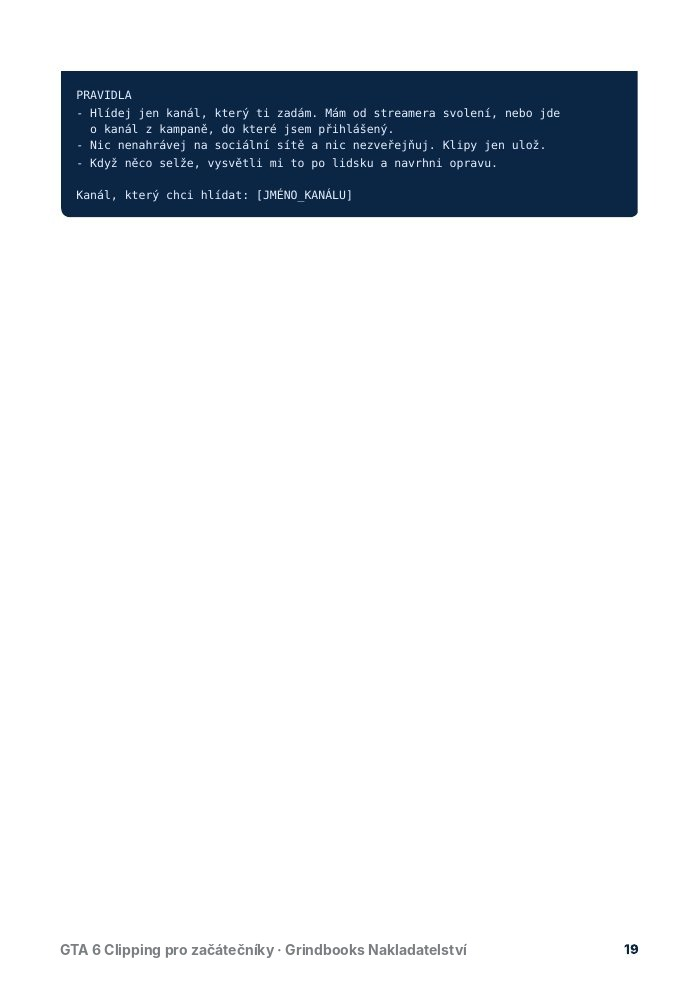
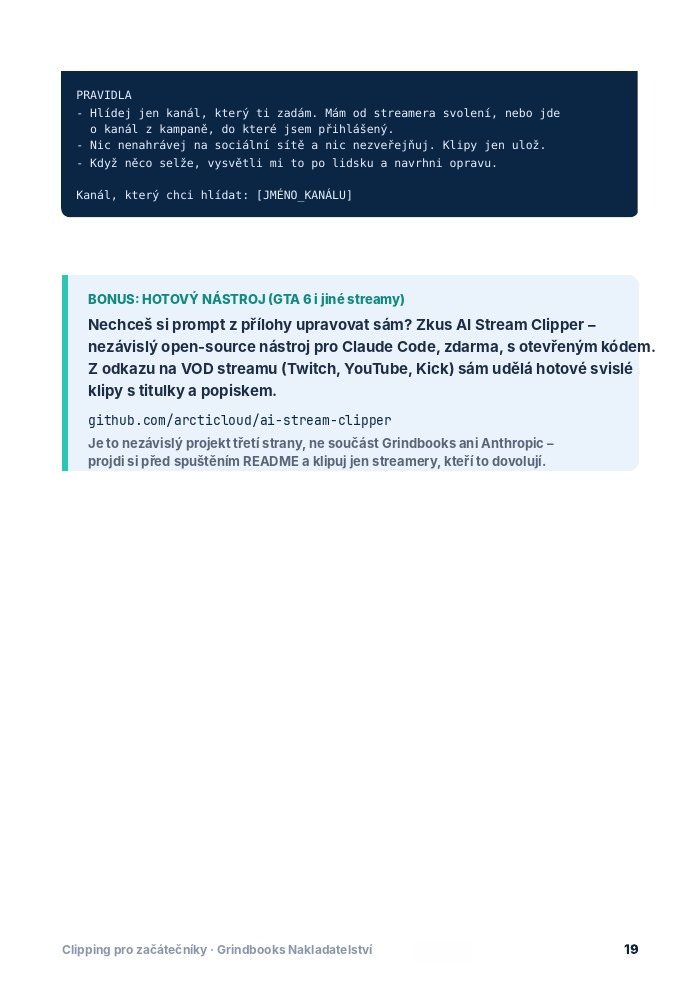
Clipping pro začátečníky (bonus: GTA 6): přejmenování + bonus odkaz
- přejmenování napříč webem: 'GTA 6 Clipping pro začátečníky' -> 'Clipping pro
  začátečníky (bonus: GTA 6)' (titulek, popisy, obálka, zadní strana)
- obálka a zadní strana přepracované (nový nadpis), patičky uvnitř knihy opraveny
- do volného místa na str. 19 doplněn bonus: odkaz na nezávislý open-source
  nástroj github.com/arcticloud/ai-stream-clipper (Claude Code skill, MIT,
  ověřeno, že reálně existuje) s upozorněním, že jde o nástroj třetí strany

Plný PDF (prodejný obsah) zde NENÍ – jde jen zákazníkovi po zaplacení / do R2,
nikdy ne do veřejného repozitáře.

Claude-Session: https://claude.ai/code/session_01RQAtjHru4NMKK4PGTpRNir

Changed region(s): [[0.09, 0.2727, 0.93, 0.4848], [0.09, 0.9394, 0.66, 0.9697]]

diff --git a/public/kniha/gta-6-clipping-pro-zacatecniky/index.html b/public/kniha/gta-6-clipping-pro-zacatecniky/index.html
@@ -3,10 +3,10 @@
 <head>
 <meta charset="utf-8">
 <meta name="viewport" content="width=device-width, initial-scale=1">
-<title>GTA 6 Clipping pro začátečníky – e-book | Nakladatelství Grindbooks</title>
+<title>Clipping pro začátečníky (bonus: GTA 6) – e-book | Nakladatelství Grindbooks</title>
 <meta name="description" content="Jak začít vydělávat s clippingem: kde najít GTA 6 kampaně i kampaně ze streamů a podcastů, jak udělat první vertikální klip a prompt zdarma, se kterým Claude hlídá stream a dělá shorty. 20 stran.">
 <meta property="og:type" content="product">
-<meta property="og:title" content="GTA 6 Clipping pro začátečníky">
+<meta property="og:title" content="Clipping pro začátečníky (bonus: GTA 6)">
 <meta property="og:description" content="Jak začít vydělávat na klipech, kde najít placené kampaně a jak nechat Clauda hlídat stream">
 <meta property="og:image" content="/img/og.jpg">
 <meta name="twitter:card" content="summary_large_image">
@@ -14,7 +14,7 @@
 <link rel="preconnect" href="https://fonts.googleapis.com"><link rel="preconnect" href="https://fonts.gstatic.com" crossorigin>
 <link href="https://fonts.googleapis.com/css2?family=Fraunces:ital,opsz,wght@0,9..144,600;0,9..144,700;1,9..144,600&family=Inter:wght@400;500;600;700;800;900&display=swap" rel="stylesheet">
 <link rel="stylesheet" href="/assets/site.css">
-<script type="application/ld+json">{"@context":"https://schema.org","@type":"Book","name":"GTA 6 Clipping pro začátečníky","alternativeHeadline":"Jak začít vydělávat na klipech, kde najít placené kampaně a jak nechat Clauda hlídat stream","author":{"@type":"Organization","name":"Tým Grindbooks"},"publisher":{"@type":"Organization","name":"Nakladatelství Grindbooks","email":"info@grindbooks.eu","url":"https://grindbooks.eu"},"bookFormat":"https://schema.org/EBook","numberOfPages":20,"inLanguage":"cs","datePublished":"2026-11"}</script>
+<script type="application/ld+json">{"@context":"https://schema.org","@type":"Book","name":"Clipping pro začátečníky (bonus: GTA 6)","alternativeHeadline":"Jak začít vydělávat na klipech, kde najít placené kampaně a jak nechat Clauda hlídat stream","author":{"@type":"Organization","name":"Tým Grindbooks"},"publisher":{"@type":"Organization","name":"Nakladatelství Grindbooks","email":"info@grindbooks.eu","url":"https://grindbooks.eu"},"bookFormat":"https://schema.org/EBook","numberOfPages":20,"inLanguage":"cs","datePublished":"2026-11"}</script>
 </head>
 <body>
 
@@ -34,7 +34,7 @@
   <div>
     <div class="crumbs rv"><a href="/">Nakladatelství</a> / <a href="/#katalog">Katalog</a> / Podnikání</div>
     <span class="eyebrow rv" style="color:var(--t)">Novinka · Jak začít vydělávat s clippingem</span>
-    <h1 class="serif rv d1">GTA 6 Clipping pro začátečníky</h1>
+    <h1 class="serif rv d1">Clipping pro začátečníky (bonus: GTA 6)</h1>
     <p class="sub rv d1">GTA 6 vychází 19. listopadu a streameři i značky už platí za klipy. Zjistíš, kde najít placené kampaně, kdo za klipy platí a jak udělat první klip. A dostaneš prompt zdarma, se kterým Claude hlídá stream a sám dělá shorty.</p>
     <div class="meta rv d2"><span>20 stran A5</span><span>6 kapitol</span><span>GTA 6 kampaně</span><span>Prompt zdarma</span><span>Tým Grindbooks</span></div>
     <div class="priceline rv d3">
@@ -102,7 +102,7 @@
   <h2 class="serif">Co dostaneš</h2>
   <p class="lead">Soubory si stáhneš hned po zaplacení.</p>
   <div class="pack">
-    <div class="item rv"><div class="ic">PDF</div><div><h3>E-book GTA 6 Clipping pro začátečníky</h3><p>20 stran ve formátu A5, pohodlně čitelný i na telefonu. 6 kapitol, tabulky a modelové příklady.</p></div></div>
+    <div class="item rv"><div class="ic">PDF</div><div><h3>E-book Clipping pro začátečníky (bonus: GTA 6)</h3><p>20 stran ve formátu A5, pohodlně čitelný i na telefonu. 6 kapitol, tabulky a modelové příklady.</p></div></div>
     <div class="item rv d1"><div class="ic">AI</div><div><h3>Prompt zdarma pro Clauda</h3><p>Hotový text ke zkopírování: Claude podle něj postaví nástroj, který hlídá stream a dělá shorty.</p></div></div>
     <div class="item rv"><div class="ic">✓</div><div><h3>Checklist „Můj první klip“</h3><p>Kontrolní seznam před každým zveřejněním, včetně pravidel kampaní.</p></div></div>
     <div class="item rv d1"><div class="ic">7d</div><div><h3>Plán a zpráva streamerovi</h3><p>Sedmidenní plán od nuly k prvním klipům a hotová zpráva pro oslovení streamera.</p></div></div>
@@ -152,7 +152,7 @@
   <div class="cols">
     <div><a class="logo" href="/"><img src="/img/logo.png" alt=""><span><b>Grindbooks</b><small>Nakladatelství</small></span></a>
       <p style="margin-top:14px;max-width:340px">Praktické české e-booky, podle kterých věci opravdu uděláte.</p></div>
-    <div><h4>E-booky</h4><ul><li><a href="/kniha/vlastni-web-pomoci-ai/">Vlastní web pomocí AI</a></li><li><a href="/kniha/vlastni-e-shop-pomoci-ai/">Vlastní e-shop pomocí AI</a></li><li><a href="/kniha/vlastni-aplikace-pomoci-ai/">Vlastní aplikace pomocí AI</a></li><li><a href="/kniha/jak-vytvorit-vlastniho-ai-chatbota/">Jak vytvořit vlastního AI chatbota</a></li><li><a href="/kniha/jak-automatizovat-praci-pomoci-ai/">Jak automatizovat práci pomocí AI</a></li><li><a href="/kniha/jak-vytvorit-vlastni-software-pomoci-ai/">Jak vytvořit vlastní software pomocí AI</a></li><li><a href="/kniha/gta-6-clipping-pro-zacatecniky/">Jak vytvářet profesionální videa pomocí AI</a></li><li><a href="/kniha/gta-6-clipping-pro-zacatecniky/">GTA 6 Clipping pro začátečníky</a></li><li><a href="/#katalog">Celý katalog</a></li></ul></div>
+    <div><h4>E-booky</h4><ul><li><a href="/kniha/vlastni-web-pomoci-ai/">Vlastní web pomocí AI</a></li><li><a href="/kniha/vlastni-e-shop-pomoci-ai/">Vlastní e-shop pomocí AI</a></li><li><a href="/kniha/vlastni-aplikace-pomoci-ai/">Vlastní aplikace pomocí AI</a></li><li><a href="/kniha/jak-vytvorit-vlastniho-ai-chatbota/">Jak vytvořit vlastního AI chatbota</a></li><li><a href="/kniha/jak-automatizovat-praci-pomoci-ai/">Jak automatizovat práci pomocí AI</a></li><li><a href="/kniha/jak-vytvorit-vlastni-software-pomoci-ai/">Jak vytvořit vlastní software pomocí AI</a></li><li><a href="/kniha/gta-6-clipping-pro-zacatecniky/">Jak vytvářet profesionální videa pomocí AI</a></li><li><a href="/kniha/gta-6-clipping-pro-zacatecniky/">Clipping pro začátečníky (bonus: GTA 6)</a></li><li><a href="/#katalog">Celý katalog</a></li></ul></div>
     <div><h4>Kontakt</h4><ul><li><a href="mailto:info@grindbooks.eu">info@grindbooks.eu</a></li><li><a href="https://grindbooks.eu">grindbooks.eu</a></li><li><a href="/podminky/">Podmínky nákupu</a></li><li><a href="/soukromi/">Ochrana soukromí</a></li></ul></div>
   </div>
   <div class="legal">© 2026 Tým Grindbooks. Platby zpracovává Stripe. Uvedené názvy služeb jsou ochranné známky jejich vlastníků; tento e-book není oficiálním produktem společností Rockstar Games, Take-Two, Twitche, TikToku, Content Rewards, Anthropicu ani dalších uvedených služeb.</div>

diff --git a/public/index.html b/public/index.html
@@ -207,7 +207,7 @@
   <div class="cols">
     <div><a class="logo" href="/"><img src="/img/logo.png" alt=""><span><b>Grindbooks</b><small>Nakladatelství</small></span></a>
       <p style="margin-top:14px;max-width:340px">Praktické české e-booky, podle kterých věci opravdu uděláte.</p></div>
-    <div><h4>E-booky</h4><ul><li><a href="/kniha/vlastni-web-pomoci-ai/">Vlastní web pomocí AI</a></li><li><a href="/kniha/vlastni-e-shop-pomoci-ai/">Vlastní e-shop pomocí AI</a></li><li><a href="/kniha/vlastni-aplikace-pomoci-ai/">Vlastní aplikace pomocí AI</a></li><li><a href="/kniha/jak-vytvorit-vlastniho-ai-chatbota/">Jak vytvořit vlastního AI chatbota</a></li><li><a href="/kniha/jak-automatizovat-praci-pomoci-ai/">Jak automatizovat práci pomocí AI</a></li><li><a href="/kniha/jak-vytvorit-vlastni-software-pomoci-ai/">Jak vytvořit vlastní software pomocí AI</a></li><li><a href="/kniha/jak-vytvaret-profesionalni-videa-pomoci-ai/">Jak vytvářet profesionální videa pomocí AI</a></li><li><a href="/kniha/gta-6-clipping-pro-zacatecniky/">GTA 6 Clipping pro začátečníky</a></li><li><a href="#katalog">Celý katalog</a></li></ul></div>
+    <div><h4>E-booky</h4><ul><li><a href="/kniha/vlastni-web-pomoci-ai/">Vlastní web pomocí AI</a></li><li><a href="/kniha/vlastni-e-shop-pomoci-ai/">Vlastní e-shop pomocí AI</a></li><li><a href="/kniha/vlastni-aplikace-pomoci-ai/">Vlastní aplikace pomocí AI</a></li><li><a href="/kniha/jak-vytvorit-vlastniho-ai-chatbota/">Jak vytvořit vlastního AI chatbota</a></li><li><a href="/kniha/jak-automatizovat-praci-pomoci-ai/">Jak automatizovat práci pomocí AI</a></li><li><a href="/kniha/jak-vytvorit-vlastni-software-pomoci-ai/">Jak vytvořit vlastní software pomocí AI</a></li><li><a href="/kniha/jak-vytvaret-profesionalni-videa-pomoci-ai/">Jak vytvářet profesionální videa pomocí AI</a></li><li><a href="/kniha/gta-6-clipping-pro-zacatecniky/">Clipping pro začátečníky (bonus: GTA 6)</a></li><li><a href="#katalog">Celý katalog</a></li></ul></div>
     <div><h4>Kontakt</h4><ul><li><a href="mailto:info@grindbooks.eu">info@grindbooks.eu</a></li><li><a href="https://grindbooks.eu">grindbooks.eu</a></li><li><a href="/podminky/">Podmínky nákupu</a></li><li><a href="/soukromi/">Ochrana soukromí</a></li><li><a href="#autori">Pro autory</a></li></ul></div>
   </div>
   <div class="legal">© 2026 Tým Grindbooks. Platby zpracovává Stripe. Claude a Claude Code jsou ochranné známky společnosti Anthropic; naše e-booky nejsou oficiálními produkty společnosti Anthropic.</div>

diff --git a/public/kniha/jak-vytvaret-profesionalni-videa-pomoci-ai/index.html b/public/kniha/jak-vytvaret-profesionalni-videa-pomoci-ai/index.html
@@ -153,7 +153,7 @@
   <div class="cols">
     <div><a class="logo" href="/"><img src="/img/logo.png" alt=""><span><b>Grindbooks</b><small>Nakladatelství</small></span></a>
       <p style="margin-top:14px;max-width:340px">Praktické české e-booky, podle kterých věci opravdu uděláte.</p></div>
-    <div><h4>E-booky</h4><ul><li><a href="/kniha/vlastni-web-pomoci-ai/">Vlastní web pomocí AI</a></li><li><a href="/kniha/vlastni-e-shop-pomoci-ai/">Vlastní e-shop pomocí AI</a></li><li><a href="/kniha/vlastni-aplikace-pomoci-ai/">Vlastní aplikace pomocí AI</a></li><li><a href="/kniha/jak-vytvorit-vlastniho-ai-chatbota/">Jak vytvořit vlastního AI chatbota</a></li><li><a href="/kniha/jak-automatizovat-praci-pomoci-ai/">Jak automatizovat práci pomocí AI</a></li><li><a href="/kniha/jak-vytvorit-vlastni-software-pomoci-ai/">Jak vytvořit vlastní software pomocí AI</a></li><li><a href="/kniha/jak-vytvaret-profesionalni-videa-pomoci-ai/">Jak vytvářet profesionální videa pomocí AI</a></li><li><a href="/kniha/gta-6-clipping-pro-zacatecniky/">GTA 6 Clipping pro začátečníky</a></li><li><a href="/#katalog">Celý katalog</a></li></ul></div>
+    <div><h4>E-booky</h4><ul><li><a href="/kniha/vlastni-web-pomoci-ai/">Vlastní web pomocí AI</a></li><li><a href="/kniha/vlastni-e-shop-pomoci-ai/">Vlastní e-shop pomocí AI</a></li><li><a href="/kniha/vlastni-aplikace-pomoci-ai/">Vlastní aplikace pomocí AI</a></li><li><a href="/kniha/jak-vytvorit-vlastniho-ai-chatbota/">Jak vytvořit vlastního AI chatbota</a></li><li><a href="/kniha/jak-automatizovat-praci-pomoci-ai/">Jak automatizovat práci pomocí AI</a></li><li><a href="/kniha/jak-vytvorit-vlastni-software-pomoci-ai/">Jak vytvořit vlastní software pomocí AI</a></li><li><a href="/kniha/jak-vytvaret-profesionalni-videa-pomoci-ai/">Jak vytvářet profesionální videa pomocí AI</a></li><li><a href="/kniha/gta-6-clipping-pro-zacatecniky/">Clipping pro začátečníky (bonus: GTA 6)</a></li><li><a href="/#katalog">Celý katalog</a></li></ul></div>
     <div><h4>Kontakt</h4><ul><li><a href="mailto:info@grindbooks.eu">info@grindbooks.eu</a></li><li><a href="https://grindbooks.eu">grindbooks.eu</a></li><li><a href="/podminky/">Podmínky nákupu</a></li><li><a href="/soukromi/">Ochrana soukromí</a></li></ul></div>
   </div>
   <div class="legal">© 2026 Tým Grindbooks. Platby zpracovává Stripe. Uvedené názvy služeb jsou ochranné známky jejich vlastníků; tento e-book není oficiálním produktem společnosti Anthropic ani dalších uvedených služeb.</div>

diff --git a/public/kniha/jak-automatizovat-praci-pomoci-ai/index.html b/public/kniha/jak-automatizovat-praci-pomoci-ai/index.html
@@ -150,7 +150,7 @@
   <div class="cols">
     <div><a class="logo" href="/"><img src="/img/logo.png" alt=""><span><b>Grindbooks</b><small>Nakladatelství</small></span></a>
       <p style="margin-top:14px;max-width:340px">Praktické české e-booky, podle kterých věci opravdu uděláte.</p></div>
-    <div><h4>E-booky</h4><ul><li><a href="/kniha/vlastni-web-pomoci-ai/">Vlastní web pomocí AI</a></li><li><a href="/kniha/vlastni-e-shop-pomoci-ai/">Vlastní e-shop pomocí AI</a></li><li><a href="/kniha/vlastni-aplikace-pomoci-ai/">Vlastní aplikace pomocí AI</a></li><li><a href="/kniha/jak-vytvorit-vlastniho-ai-chatbota/">Jak vytvořit vlastního AI chatbota</a></li><li><a href="/kniha/jak-automatizovat-praci-pomoci-ai/">Jak automatizovat práci pomocí AI</a></li><li><a href="/kniha/jak-vytvorit-vlastni-software-pomoci-ai/">Jak vytvořit vlastní software pomocí AI</a></li><li><a href="/kniha/jak-vytvaret-profesionalni-videa-pomoci-ai/">Jak vytvářet profesionální videa pomocí AI</a></li><li><a href="/kniha/gta-6-clipping-pro-zacatecniky/">GTA 6 Clipping pro začátečníky</a></li><li><a href="/#katalog">Celý katalog</a></li></ul></div>
+    <div><h4>E-booky</h4><ul><li><a href="/kniha/vlastni-web-pomoci-ai/">Vlastní web pomocí AI</a></li><li><a href="/kniha/vlastni-e-shop-pomoci-ai/">Vlastní e-shop pomocí AI</a></li><li><a href="/kniha/vlastni-aplikace-pomoci-ai/">Vlastní aplikace pomocí AI</a></li><li><a href="/kniha/jak-vytvorit-vlastniho-ai-chatbota/">Jak vytvořit vlastního AI chatbota</a></li><li><a href="/kniha/jak-automatizovat-praci-pomoci-ai/">Jak automatizovat práci pomocí AI</a></li><li><a href="/kniha/jak-vytvorit-vlastni-software-pomoci-ai/">Jak vytvořit vlastní software pomocí AI</a></li><li><a href="/kniha/jak-vytvaret-profesionalni-videa-pomoci-ai/">Jak vytvářet profesionální videa pomocí AI</a></li><li><a href="/kniha/gta-6-clipping-pro-zacatecniky/">Clipping pro začátečníky (bonus: GTA 6)</a></li><li><a href="/#katalog">Celý katalog</a></li></ul></div>
     <div><h4>Kontakt</h4><ul><li><a href="mailto:info@grindbooks.eu">info@grindbooks.eu</a></li><li><a href="https://grindbooks.eu">grindbooks.eu</a></li><li><a href="/podminky/">Podmínky nákupu</a></li><li><a href="/soukromi/">Ochrana soukromí</a></li></ul></div>
   </div>
   <div class="legal">© 2026 Tým Grindbooks. Platby zpracovává Stripe. Claude a Claude Code jsou ochranné známky společnosti Anthropic; tento e-book není oficiálním produktem společnosti Anthropic.</div>

diff --git a/public/kniha/jak-vytvorit-vlastni-software-pomoci-ai/index.html b/public/kniha/jak-vytvorit-vlastni-software-pomoci-ai/index.html
@@ -153,7 +153,7 @@
   <div class="cols">
     <div><a class="logo" href="/"><img src="/img/logo.png" alt=""><span><b>Grindbooks</b><small>Nakladatelství</small></span></a>
       <p style="margin-top:14px;max-width:340px">Praktické české e-booky, podle kterých věci opravdu uděláte.</p></div>
-    <div><h4>E-booky</h4><ul><li><a href="/kniha/vlastni-web-pomoci-ai/">Vlastní web pomocí AI</a></li><li><a href="/kniha/vlastni-e-shop-pomoci-ai/">Vlastní e-shop pomocí AI</a></li><li><a href="/kniha/vlastni-aplikace-pomoci-ai/">Vlastní aplikace pomocí AI</a></li><li><a href="/kniha/jak-vytvorit-vlastniho-ai-chatbota/">Jak vytvořit vlastního AI chatbota</a></li><li><a href="/kniha/jak-automatizovat-praci-pomoci-ai/">Jak automatizovat práci pomocí AI</a></li><li><a href="/kniha/jak-vytvorit-vlastni-software-pomoci-ai/">Jak vytvořit vlastní software pomocí AI</a></li><li><a href="/kniha/jak-vytvaret-profesionalni-videa-pomoci-ai/">Jak vytvářet profesionální videa pomocí AI</a></li><li><a href="/kniha/gta-6-clipping-pro-zacatecniky/">GTA 6 Clipping pro začátečníky</a></li><li><a href="/#katalog">Celý katalog</a></li></ul></div>
+    <div><h4>E-booky</h4><ul><li><a href="/kniha/vlastni-web-pomoci-ai/">Vlastní web pomocí AI</a></li><li><a href="/kniha/vlastni-e-shop-pomoci-ai/">Vlastní e-shop pomocí AI</a></li><li><a href="/kniha/vlastni-aplikace-pomoci-ai/">Vlastní aplikace pomocí AI</a></li><li><a href="/kniha/jak-vytvorit-vlastniho-ai-chatbota/">Jak vytvořit vlastního AI chatbota</a></li><li><a href="/kniha/jak-automatizovat-praci-pomoci-ai/">Jak automatizovat práci pomocí AI</a></li><li><a href="/kniha/jak-vytvorit-vlastni-software-pomoci-ai/">Jak vytvořit vlastní software pomocí AI</a></li><li><a href="/kniha/jak-vytvaret-profesionalni-videa-pomoci-ai/">Jak vytvářet profesionální videa pomocí AI</a></li><li><a href="/kniha/gta-6-clipping-pro-zacatecniky/">Clipping pro začátečníky (bonus: GTA 6)</a></li><li><a href="/#katalog">Celý katalog</a></li></ul></div>
     <div><h4>Kontakt</h4><ul><li><a href="mailto:info@grindbooks.eu">info@grindbooks.eu</a></li><li><a href="https://grindbooks.eu">grindbooks.eu</a></li><li><a href="/podminky/">Podmínky nákupu</a></li><li><a href="/soukromi/">Ochrana soukromí</a></li></ul></div>
   </div>
   <div class="legal">© 2026 Tým Grindbooks. Platby zpracovává Stripe. Claude a Claude Code jsou ochranné známky společnosti Anthropic; tento e-book není oficiálním produktem společnosti Anthropic.</div>

diff --git a/public/kniha/jak-vytvorit-vlastniho-ai-chatbota/index.html b/public/kniha/jak-vytvorit-vlastniho-ai-chatbota/index.html
@@ -153,7 +153,7 @@
   <div class="cols">
     <div><a class="logo" href="/"><img src="/img/logo.png" alt=""><span><b>Grindbooks</b><small>Nakladatelství</small></span></a>
       <p style="margin-top:14px;max-width:340px">Praktické české e-booky, podle kterých věci opravdu uděláte.</p></div>
-    <div><h4>E-booky</h4><ul><li><a href="/kniha/vlastni-web-pomoci-ai/">Vlastní web pomocí AI</a></li><li><a href="/kniha/vlastni-e-shop-pomoci-ai/">Vlastní e-shop pomocí AI</a></li><li><a href="/kniha/vlastni-aplikace-pomoci-ai/">Vlastní aplikace pomocí AI</a></li><li><a href="/kniha/jak-vytvorit-vlastniho-ai-chatbota/">Jak vytvořit vlastního AI chatbota</a></li><li><a href="/kniha/jak-automatizovat-praci-pomoci-ai/">Jak automatizovat práci pomocí AI</a></li><li><a href="/kniha/jak-vytvorit-vlastni-software-pomoci-ai/">Jak vytvořit vlastní software pomocí AI</a></li><li><a href="/kniha/jak-vytvaret-profesionalni-videa-pomoci-ai/">Jak vytvářet profesionální videa pomocí AI</a></li><li><a href="/kniha/gta-6-clipping-pro-zacatecniky/">GTA 6 Clipping pro začátečníky</a></li><li><a href="/#katalog">Celý katalog</a></li></ul></div>
+    <div><h4>E-booky</h4><ul><li><a href="/kniha/vlastni-web-pomoci-ai/">Vlastní web pomocí AI</a></li><li><a href="/kniha/vlastni-e-shop-pomoci-ai/">Vlastní e-shop pomocí AI</a></li><li><a href="/kniha/vlastni-aplikace-pomoci-ai/">Vlastní aplikace pomocí AI</a></li><li><a href="/kniha/jak-vytvorit-vlastniho-ai-chatbota/">Jak vytvořit vlastního AI chatbota</a></li><li><a href="/kniha/jak-automatizovat-praci-pomoci-ai/">Jak automatizovat práci pomocí AI</a></li><li><a href="/kniha/jak-vytvorit-vlastni-software-pomoci-ai/">Jak vytvořit vlastní software pomocí AI</a></li><li><a href="/kniha/jak-vytvaret-profesionalni-videa-pomoci-ai/">Jak vytvářet profesionální videa pomocí AI</a></li><li><a href="/kniha/gta-6-clipping-pro-zacatecniky/">Clipping pro začátečníky (bonus: GTA 6)</a></li><li><a href="/#katalog">Celý katalog</a></li></ul></div>
     <div><h4>Kontakt</h4><ul><li><a href="mailto:info@grindbooks.eu">info@grindbooks.eu</a></li><li><a href="https://grindbooks.eu">grindbooks.eu</a></li><li><a href="/podminky/">Podmínky nákupu</a></li><li><a href="/soukromi/">Ochrana soukromí</a></li></ul></div>
   </div>
   <div class="legal">© 2026 Tým Grindbooks. Platby zpracovává Stripe. Claude a Claude Code jsou ochranné známky společnosti Anthropic; tento e-book není oficiálním produktem společnosti Anthropic.</div>

diff --git a/public/kniha/vlastni-aplikace-pomoci-ai/index.html b/public/kniha/vlastni-aplikace-pomoci-ai/index.html
@@ -153,7 +153,7 @@
   <div class="cols">
     <div><a class="logo" href="/"><img src="/img/logo.png" alt=""><span><b>Grindbooks</b><small>Nakladatelství</small></span></a>
       <p style="margin-top:14px;max-width:340px">Praktické české e-booky, podle kterých věci opravdu uděláte.</p></div>
-    <div><h4>E-booky</h4><ul><li><a href="/kniha/vlastni-web-pomoci-ai/">Vlastní web pomocí AI</a></li><li><a href="/kniha/vlastni-e-shop-pomoci-ai/">Vlastní e-shop pomocí AI</a></li><li><a href="/kniha/vlastni-aplikace-pomoci-ai/">Vlastní aplikace pomocí AI</a></li><li><a href="/kniha/jak-vytvorit-vlastniho-ai-chatbota/">Jak vytvořit vlastního AI chatbota</a></li><li><a href="/kniha/jak-automatizovat-praci-pomoci-ai/">Jak automatizovat práci pomocí AI</a></li><li><a href="/kniha/jak-vytvorit-vlastni-software-pomoci-ai/">Jak vytvořit vlastní software pomocí AI</a></li><li><a href="/kniha/jak-vytvaret-profesionalni-videa-pomoci-ai/">Jak vytvářet profesionální videa pomocí AI</a></li><li><a href="/kniha/gta-6-clipping-pro-zacatecniky/">GTA 6 Clipping pro začátečníky</a></li><li><a href="/#katalog">Celý katalog</a></li></ul></div>
+    <div><h4>E-booky</h4><ul><li><a href="/kniha/vlastni-web-pomoci-ai/">Vlastní web pomocí AI</a></li><li><a href="/kniha/vlastni-e-shop-pomoci-ai/">Vlastní e-shop pomocí AI</a></li><li><a href="/kniha/vlastni-aplikace-pomoci-ai/">Vlastní aplikace pomocí AI</a></li><li><a href="/kniha/jak-vytvorit-vlastniho-ai-chatbota/">Jak vytvořit vlastního AI chatbota</a></li><li><a href="/kniha/jak-automatizovat-praci-pomoci-ai/">Jak automatizovat práci pomocí AI</a></li><li><a href="/kniha/jak-vytvorit-vlastni-software-pomoci-ai/">Jak vytvořit vlastní software pomocí AI</a></li><li><a href="/kniha/jak-vytvaret-profesionalni-videa-pomoci-ai/">Jak vytvářet profesionální videa pomocí AI</a></li><li><a href="/kniha/gta-6-clipping-pro-zacatecniky/">Clipping pro začátečníky (bonus: GTA 6)</a></li><li><a href="/#katalog">Celý katalog</a></li></ul></div>
     <div><h4>Kontakt</h4><ul><li><a href="mailto:info@grindbooks.eu">info@grindbooks.eu</a></li><li><a href="https://grindbooks.eu">grindbooks.eu</a></li><li><a href="/podminky/">Podmínky nákupu</a></li><li><a href="/soukromi/">Ochrana soukromí</a></li></ul></div>
   </div>
   <div class="legal">© 2026 Tým Grindbooks. Platby zpracovává Stripe. Claude a Claude Code jsou ochranné známky společnosti Anthropic; tento e-book není oficiálním produktem společnosti Anthropic.</div>

diff --git a/public/kniha/vlastni-e-shop-pomoci-ai/index.html b/public/kniha/vlastni-e-shop-pomoci-ai/index.html
@@ -154,7 +154,7 @@
   <div class="cols">
     <div><a class="logo" href="/"><img src="/img/logo.png" alt=""><span><b>Grindbooks</b><small>Nakladatelství</small></span></a>
       <p style="margin-top:14px;max-width:340px">Praktické české e-booky, podle kterých věci opravdu uděláte.</p></div>
-    <div><h4>E-booky</h4><ul><li><a href="/kniha/vlastni-web-pomoci-ai/">Vlastní web pomocí AI</a></li><li><a href="/kniha/vlastni-e-shop-pomoci-ai/">Vlastní e-shop pomocí AI</a></li><li><a href="/kniha/vlastni-aplikace-pomoci-ai/">Vlastní aplikace pomocí AI</a></li><li><a href="/kniha/jak-vytvorit-vlastniho-ai-chatbota/">Jak vytvořit vlastního AI chatbota</a></li><li><a href="/kniha/jak-automatizovat-praci-pomoci-ai/">Jak automatizovat práci pomocí AI</a></li><li><a href="/kniha/jak-vytvorit-vlastni-software-pomoci-ai/">Jak vytvořit vlastní software pomocí AI</a></li><li><a href="/kniha/jak-vytvaret-profesionalni-videa-pomoci-ai/">Jak vytvářet profesionální videa pomocí AI</a></li><li><a href="/kniha/gta-6-clipping-pro-zacatecniky/">GTA 6 Clipping pro začátečníky</a></li><li><a href="/#katalog">Celý katalog</a></li></ul></div>
+    <div><h4>E-booky</h4><ul><li><a href="/kniha/vlastni-web-pomoci-ai/">Vlastní web pomocí AI</a></li><li><a href="/kniha/vlastni-e-shop-pomoci-ai/">Vlastní e-shop pomocí AI</a></li><li><a href="/kniha/vlastni-aplikace-pomoci-ai/">Vlastní aplikace pomocí AI</a></li><li><a href="/kniha/jak-vytvorit-vlastniho-ai-chatbota/">Jak vytvořit vlastního AI chatbota</a></li><li><a href="/kniha/jak-automatizovat-praci-pomoci-ai/">Jak automatizovat práci pomocí AI</a></li><li><a href="/kniha/jak-vytvorit-vlastni-software-pomoci-ai/">Jak vytvořit vlastní software pomocí AI</a></li><li><a href="/kniha/jak-vytvaret-profesionalni-videa-pomoci-ai/">Jak vytvářet profesionální videa pomocí AI</a></li><li><a href="/kniha/gta-6-clipping-pro-zacatecniky/">Clipping pro začátečníky (bonus: GTA 6)</a></li><li><a href="/#katalog">Celý katalog</a></li></ul></div>
     <div><h4>Kontakt</h4><ul><li><a href="mailto:info@grindbooks.eu">info@grindbooks.eu</a></li><li><a href="https://grindbooks.eu">grindbooks.eu</a></li><li><a href="/podminky/">Podmínky nákupu</a></li><li><a href="/soukromi/">Ochrana soukromí</a></li></ul></div>
   </div>
   <div class="legal">© 2026 Tým Grindbooks. Platby zpracovává Stripe. Claude a Claude Code jsou ochranné známky společnosti Anthropic; tento e-book není oficiálním produktem společnosti Anthropic.</div>

diff --git a/public/kniha/vlastni-web-pomoci-ai/index.html b/public/kniha/vlastni-web-pomoci-ai/index.html
@@ -154,7 +154,7 @@
   <div class="cols">
     <div><a class="logo" href="/"><img src="/img/logo.png" alt=""><span><b>Grindbooks</b><small>Nakladatelství</small></span></a>
       <p style="margin-top:14px;max-width:340px">Praktické české e-booky, podle kterých věci opravdu uděláte.</p></div>
-    <div><h4>E-booky</h4><ul><li><a href="/kniha/vlastni-web-pomoci-ai/">Vlastní web pomocí AI</a></li><li><a href="/kniha/vlastni-e-shop-pomoci-ai/">Vlastní e-shop pomocí AI</a></li><li><a href="/kniha/vlastni-aplikace-pomoci-ai/">Vlastní aplikace pomocí AI</a></li><li><a href="/kniha/jak-vytvorit-vlastniho-ai-chatbota/">Jak vytvořit vlastního AI chatbota</a></li><li><a href="/kniha/jak-automatizovat-praci-pomoci-ai/">Jak automatizovat práci pomocí AI</a></li><li><a href="/kniha/jak-vytvorit-vlastni-software-pomoci-ai/">Jak vytvořit vlastní software pomocí AI</a></li><li><a href="/kniha/jak-vytvaret-profesionalni-videa-pomoci-ai/">Jak vytvářet profesionální videa pomocí AI</a></li><li><a href="/kniha/gta-6-clipping-pro-zacatecniky/">GTA 6 Clipping pro začátečníky</a></li><li><a href="/#katalog">Celý katalog</a></li></ul></div>
+    <div><h4>E-booky</h4><ul><li><a href="/kniha/vlastni-web-pomoci-ai/">Vlastní web pomocí AI</a></li><li><a href="/kniha/vlastni-e-shop-pomoci-ai/">Vlastní e-shop pomocí AI</a></li><li><a href="/kniha/vlastni-aplikace-pomoci-ai/">Vlastní aplikace pomocí AI</a></li><li><a href="/kniha/jak-vytvorit-vlastniho-ai-chatbota/">Jak vytvořit vlastního AI chatbota</a></li><li><a href="/kniha/jak-automatizovat-praci-pomoci-ai/">Jak automatizovat práci pomocí AI</a></li><li><a href="/kniha/jak-vytvorit-vlastni-software-pomoci-ai/">Jak vytvořit vlastní software pomocí AI</a></li><li><a href="/kniha/jak-vytvaret-profesionalni-videa-pomoci-ai/">Jak vytvářet profesionální videa pomocí AI</a></li><li><a href="/kniha/gta-6-clipping-pro-zacatecniky/">Clipping pro začátečníky (bonus: GTA 6)</a></li><li><a href="/#katalog">Celý katalog</a></li></ul></div>
     <div><h4>Kontakt</h4><ul><li><a href="mailto:info@grindbooks.eu">info@grindbooks.eu</a></li><li><a href="https://grindbooks.eu">grindbooks.eu</a></li><li><a href="/podminky/">Podmínky nákupu</a></li><li><a href="/soukromi/">Ochrana soukromí</a></li></ul></div>
   </div>
   <div class="legal">© 2026 Tým Grindbooks. Platby zpracovává Stripe. Claude a Claude Code jsou ochranné známky společnosti Anthropic; tento e-book není oficiálním produktem společnosti Anthropic.</div>

diff --git a/public/404.html b/public/404.html
@@ -13,7 +13,7 @@
 <body>
 <header class="nav"><div class="wrap">
   <a class="logo" href="/"><img src="/img/logo.png" alt=""><span><b>Grindbooks</b><small>Nakladatelství</small></span></a>
-  <ul><li><a href="/#katalog">Katalog</a></li><li><a href="/kniha/vlastni-web-pomoci-ai/">Vlastní web pomocí AI</a></li><li><a href="/kniha/vlastni-e-shop-pomoci-ai/">Vlastní e-shop pomocí AI</a></li><li><a href="/kniha/vlastni-aplikace-pomoci-ai/">Vlastní aplikace pomocí AI</a></li><li><a href="/kniha/jak-vytvorit-vlastniho-ai-chatbota/">Jak vytvořit vlastního AI chatbota</a></li><li><a href="/kniha/jak-automatizovat-praci-pomoci-ai/">Jak automatizovat práci pomocí AI</a></li><li><a href="/kniha/jak-vytvorit-vlastni-software-pomoci-ai/">Jak vytvořit vlastní software pomocí AI</a></li><li><a href="/kniha/jak-vytvaret-profesionalni-videa-pomoci-ai/">Jak vytvářet profesionální videa pomocí AI</a></li><li><a href="/kniha/gta-6-clipping-pro-zacatecniky/">GTA 6 Clipping pro začátečníky</a></li><li><a href="/#faq">Otázky</a></li></ul>
+  <ul><li><a href="/#katalog">Katalog</a></li><li><a href="/kniha/vlastni-web-pomoci-ai/">Vlastní web pomocí AI</a></li><li><a href="/kniha/vlastni-e-shop-pomoci-ai/">Vlastní e-shop pomocí AI</a></li><li><a href="/kniha/vlastni-aplikace-pomoci-ai/">Vlastní aplikace pomocí AI</a></li><li><a href="/kniha/jak-vytvorit-vlastniho-ai-chatbota/">Jak vytvořit vlastního AI chatbota</a></li><li><a href="/kniha/jak-automatizovat-praci-pomoci-ai/">Jak automatizovat práci pomocí AI</a></li><li><a href="/kniha/jak-vytvorit-vlastni-software-pomoci-ai/">Jak vytvořit vlastní software pomocí AI</a></li><li><a href="/kniha/jak-vytvaret-profesionalni-videa-pomoci-ai/">Jak vytvářet profesionální videa pomocí AI</a></li><li><a href="/kniha/gta-6-clipping-pro-zacatecniky/">Clipping pro začátečníky (bonus: GTA 6)</a></li><li><a href="/#faq">Otázky</a></li></ul>
   <a class="btn sm" href="/#katalog">Katalog e-booků</a>
 </div></header>
 <main class="nf"><div style="position:relative">

diff --git a/public/podminky/index.html b/public/podminky/index.html
@@ -13,7 +13,7 @@
 <body>
 <header class="nav keep"><div class="wrap">
   <a class="logo" href="/"><img src="/img/logo.png" alt=""><span><b>Grindbooks</b><small>Nakladatelství</small></span></a>
-  <ul><li><a href="/#katalog">Katalog</a></li><li><a href="/kniha/vlastni-web-pomoci-ai/">Vlastní web pomocí AI</a></li><li><a href="/kniha/vlastni-e-shop-pomoci-ai/">Vlastní e-shop pomocí AI</a></li><li><a href="/kniha/vlastni-aplikace-pomoci-ai/">Vlastní aplikace pomocí AI</a></li><li><a href="/kniha/jak-vytvorit-vlastniho-ai-chatbota/">Jak vytvořit vlastního AI chatbota</a></li><li><a href="/kniha/jak-automatizovat-praci-pomoci-ai/">Jak automatizovat práci pomocí AI</a></li><li><a href="/kniha/jak-vytvorit-vlastni-software-pomoci-ai/">Jak vytvořit vlastní software pomocí AI</a></li><li><a href="/kniha/jak-vytvaret-profesionalni-videa-pomoci-ai/">Jak vytvářet profesionální videa pomocí AI</a></li><li><a href="/kniha/gta-6-clipping-pro-zacatecniky/">GTA 6 Clipping pro začátečníky</a></li><li><a href="/#faq">Otázky</a></li></ul>
+  <ul><li><a href="/#katalog">Katalog</a></li><li><a href="/kniha/vlastni-web-pomoci-ai/">Vlastní web pomocí AI</a></li><li><a href="/kniha/vlastni-e-shop-pomoci-ai/">Vlastní e-shop pomocí AI</a></li><li><a href="/kniha/vlastni-aplikace-pomoci-ai/">Vlastní aplikace pomocí AI</a></li><li><a href="/kniha/jak-vytvorit-vlastniho-ai-chatbota/">Jak vytvořit vlastního AI chatbota</a></li><li><a href="/kniha/jak-automatizovat-praci-pomoci-ai/">Jak automatizovat práci pomocí AI</a></li><li><a href="/kniha/jak-vytvorit-vlastni-software-pomoci-ai/">Jak vytvořit vlastní software pomocí AI</a></li><li><a href="/kniha/jak-vytvaret-profesionalni-videa-pomoci-ai/">Jak vytvářet profesionální videa pomocí AI</a></li><li><a href="/kniha/gta-6-clipping-pro-zacatecniky/">Clipping pro začátečníky (bonus: GTA 6)</a></li><li><a href="/#faq">Otázky</a></li></ul>
   <a class="btn sm" href="/#katalog">Katalog e-booků</a>
 </div></header>
 <main class="doc"><div class="wrap">

diff --git a/public/soukromi/index.html b/public/soukromi/index.html
@@ -13,7 +13,7 @@
 <body>
 <header class="nav keep"><div class="wrap">
   <a class="logo" href="/"><img src="/img/logo.png" alt=""><span><b>Grindbooks</b><small>Nakladatelství</small></span></a>
-  <ul><li><a href="/#katalog">Katalog</a></li><li><a href="/kniha/vlastni-web-pomoci-ai/">Vlastní web pomocí AI</a></li><li><a href="/kniha/vlastni-e-shop-pomoci-ai/">Vlastní e-shop pomocí AI</a></li><li><a href="/kniha/vlastni-aplikace-pomoci-ai/">Vlastní aplikace pomocí AI</a></li><li><a href="/kniha/jak-vytvorit-vlastniho-ai-chatbota/">Jak vytvořit vlastního AI chatbota</a></li><li><a href="/kniha/jak-automatizovat-praci-pomoci-ai/">Jak automatizovat práci pomocí AI</a></li><li><a href="/kniha/jak-vytvorit-vlastni-software-pomoci-ai/">Jak vytvořit vlastní software pomocí AI</a></li><li><a href="/kniha/jak-vytvaret-profesionalni-videa-pomoci-ai/">Jak vytvářet profesionální videa pomocí AI</a></li><li><a href="/kniha/gta-6-clipping-pro-zacatecniky/">GTA 6 Clipping pro začátečníky</a></li><li><a href="/#faq">Otázky</a></li></ul>
+  <ul><li><a href="/#katalog">Katalog</a></li><li><a href="/kniha/vlastni-web-pomoci-ai/">Vlastní web pomocí AI</a></li><li><a href="/kniha/vlastni-e-shop-pomoci-ai/">Vlastní e-shop pomocí AI</a></li><li><a href="/kniha/vlastni-aplikace-pomoci-ai/">Vlastní aplikace pomocí AI</a></li><li><a href="/kniha/jak-vytvorit-vlastniho-ai-chatbota/">Jak vytvořit vlastního AI chatbota</a></li><li><a href="/kniha/jak-automatizovat-praci-pomoci-ai/">Jak automatizovat práci pomocí AI</a></li><li><a href="/kniha/jak-vytvorit-vlastni-software-pomoci-ai/">Jak vytvořit vlastní software pomocí AI</a></li><li><a href="/kniha/jak-vytvaret-profesionalni-videa-pomoci-ai/">Jak vytvářet profesionální videa pomocí AI</a></li><li><a href="/kniha/gta-6-clipping-pro-zacatecniky/">Clipping pro začátečníky (bonus: GTA 6)</a></li><li><a href="/#faq">Otázky</a></li></ul>
   <a class="btn sm" href="/#katalog">Katalog e-booků</a>
 </div></header>
 <main class="doc"><div class="wrap">
